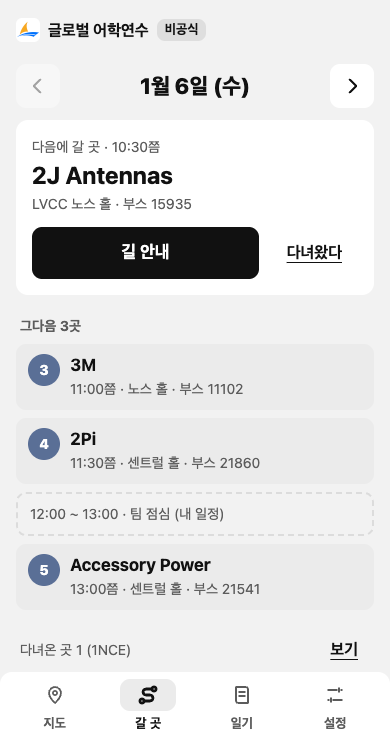
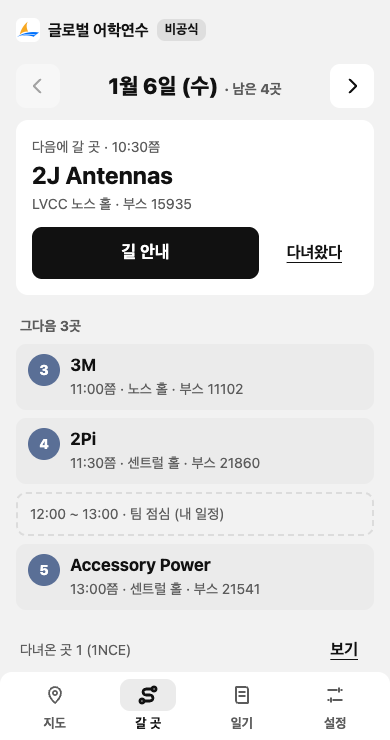
갈 곳 날짜 줄에 그 날 남은 곳 수를 보인다 (R47)
- "1월 6일 (수) · 남은 4곳": 그 날 회사 가운데 다녀왔다를 누르지 않은 곳(내 일정은 세지 않는다)
- 다 다녀왔으면 "다 다녀옴", 회사가 없는 날은 적지 않는다
- 글자만 더한다(단추 · 칩은 그대로). 360px 가장 큰 글자에서는 둘째 줄 작은 글씨

Changed region(s): [[0.2769, 0.0932, 0.7385, 0.1554]]

diff --git a/docs/board/board.single.html b/docs/board/board.single.html
@@ -1098,7 +1098,7 @@ window.BOARD = {
       ai_people: {name: '남의 명함 받기', kind: '화면', one: '카메라로 읽고 만난 사람으로 남긴다', what: '카메라가 되는 곳은 QR을 읽고, 안 되는 곳은 주소나 아이디를 넣는다.', why: '남의 명함도 명함 교환으로 폰에 남기려고 한다.', how: ['깃허브 · 디스코드 · 링크드인 · https 주소만 받는다', '읽자마자(또는 붙여 넣자마자) 폰에 남기고 이름 적기 카드를 연다. 같은 사람은 새 줄 없이 "이미 있다"', '별명 · 만난 곳 · 메모는 카드에서 나중에 고친다', '회사 일기 쓰기와 만난 사람 수를 잇는다'], rules: ['서버로 보내지 않고 ces2027.people.v1에만 둔다', '카메라가 없거나 권한이 거부되면 주소 붙여넣기 길을 보인다'], fails: ['실제 폰 카메라와 사파리는 아직 확인하지 못했다'], files: ['web/views/people.js', 'web/people-ui.js', 'web/people.js', 'web/scan.js', 'web/people-store.js']},
       ai_find: {name: '찾기 칸 · 추천', kind: '화면', one: '지도 위 찾기 칸과 갈 곳 아래 추천 회사에서 관심에 담는다', what: '지도 탭 맨 위의 찾기 칸(이름 · 분야 · 부스 번호)과 갈 곳 탭 아래의 추천 회사(#/rec).', why: '전시사가 많아 고르는 길이 여럿 있어야 한다.', how: ['낱말은 찾기 코어(WASM)가 찾는다', '영어 낱말(세 글자 이상)이면 회사 두 줄 다음에 세션이 두 줄까지. 누르면 세션 일정이 그 제목으로 찾은 채 열린다(세션 자료는 글자를 칠 때 받는다)', '글자가 있으면 칸 오른쪽에 지우기(×): 누르면 칸이 비고 결과 줄이 닫힌다', '추천: 전체 · 혁신상 · 한국 · 내 분야로 걸러 까닭과 같이 보인다'], calls: ['추천', '찾기 코어'], rules: ['추천은 공식 자료만 근거로 한다'], files: ['web/mapfind.js', 'web/views/rec.js', 'web/company.js']},
       ai_list: {name: '전시사 목록', kind: '화면', one: '전시사 전부를 이름순 · 부스순으로 보고 걸러 관심에 담는다', what: '지도 칩 줄 맨 앞 "목록"(#/list). 공식 앱의 전시사 A–Z 목록을 우리 앱에 둔 것이다.', why: '공식 앱은 목록이 중심이다. 지도만으로는 3,751곳을 훑어보기 어렵다.', how: ['이름순: A ~ Z, 숫자 · 기호로 시작하면 맨 끝 #. 위에 붙은 글자 줄로 바로 간다', '부스순: 위치 묶음 차례 → 부스 번호. 위치 줄로 바로 간다', '거르기: 혁신상 · 한국은 누르면 켜고 끄고, 위치 · 나라 · 분야는 고르는 창(회사 수와 같이)', '찾기: 영문 · 숫자는 이름 · 부스 번호로 바로, 한글은 찾기 코어(한글 별칭 · 분야 이름)', '줄은 60개씩 내릴 때 붙인다. 줄을 누르면 지도에서 그 회사 카드, 뒤로 오면 거르기와 보던 자리가 남는다'], calls: ['찾기 코어'], rules: ['자료는 이 화면을 열 때 받는다(첫 화면에 싣지 않는다)', '고른 거르기는 화면을 떠나도 남지만 폰 저장소에는 두지 않는다'], files: ['web/views/list.js', 'web/exlist.js', 'web/hallgroups.js']},
-      ai_plan: {name: '갈 곳 · 시간과 일정', kind: '화면', one: '지금 어디로 가지? 다음 한 곳을 크게', what: '갈 곳 화면(날짜 한 줄, 다음에 갈 곳 한 곳 크게, 그다음 곳들, 다녀온 곳 접기, 목록 고치기 · 지도에서 보기, 큰 회사 카드), 추천 회사, 내 시간(시간과 일정), 강연 일정.', why: '처음 보는 사람도 화면에서 가장 큰 것을 보고 다음에 갈 곳을 안다. 볼 곳을 시간 안에 넣어야 하루가 된다.', how: ['날짜 한 줄 "‹ 1월 6일 (수) ›"로 날을 넘긴다. 1/5(전시 전날)는 그 날 넣은 내 일정이 있을 때만, "날짜 없음"은 날짜 없는 곳이 있을 때만 보인다(1/4 매체 전용은 없다)', '다음에 갈 곳: 고른 날의 첫 안 간 곳의 이름 · 부스 · 때, 검정 "길 안내" 하나와 글자 "다녀왔다"', '그다음 곳들: 번호는 지도 번호와 같고, 내 일정은 번호 없는 점선 칸으로 때에 맞는 자리에 선다', '"다녀왔다"를 누르면 그 곳이 "다녀온 곳 n · 보기" 한 줄로 접히고 "일기 쓰기"가 6초 뜬다. 펼친 줄의 "다녀옴" 칸으로 되돌린다', '줄을 누르면 큰 회사 카드(길 안내 · 다녀왔다 · 일기 쓰기 · 공식 쪽 · 부스 자리마다 한 줄 · 이 회사 강연 · 다른 날로 옮기기 · 갈 곳에서 빼기). 1/5로는 옮기지 못한다', '목록 고치기: 날짜 없는 곳을 날마다 나누기(쓸 시간과 내 일정을 뺀다) · 가까운 곳끼리 줄 세우기 · 다른 사람에게 보내기(폰의 공유 창) · 하루에 볼 곳 · 받은 목록 넣기', '날마다 "몇 시쯤"과 내 일정을 같이 보인다', '문서 · 표 파일로 내보내기와 시간 · 일정 파일은 설정에 있다'], rules: ['검정 단추는 화면에 "길 안내" 하나', '1/5에는 회사를 넣지 못한다(내 일정만)', '우리 일정은 폰에만 둔다. 레포에 넣지 않는다', '일정은 바뀔 수 있다고 보인다 (운영팀 안내가 먼저)'], calls: ['걷는 차례 · 날 나누기'], files: ['web/views/plan.js', 'web/plancard.js', 'web/views/days.js', 'web/views/sessions.js', 'web/company-extra.js', 'web/bands.js', 'docs/디자인/동선_쉽게_안.md', 'docs/내일정_파일.md'], ch: '2026-11-24 · 안 1(다음 한 곳 크게)로 다시 지었다. 탭 이름 "동선" → "갈 곳", 날짜 칩 → 날짜 한 줄, "안 본 곳" 칩 대신 다녀온 곳 접기'},
+      ai_plan: {name: '갈 곳 · 시간과 일정', kind: '화면', one: '지금 어디로 가지? 다음 한 곳을 크게', what: '갈 곳 화면(날짜 한 줄, 다음에 갈 곳 한 곳 크게, 그다음 곳들, 다녀온 곳 접기, 목록 고치기 · 지도에서 보기, 큰 회사 카드), 추천 회사, 내 시간(시간과 일정), 강연 일정.', why: '처음 보는 사람도 화면에서 가장 큰 것을 보고 다음에 갈 곳을 안다. 볼 곳을 시간 안에 넣어야 하루가 된다.', how: ['날짜 한 줄 "‹ 1월 6일 (수) · 남은 4곳 ›"로 날을 넘긴다. 남은 곳은 그 날 회사 가운데 다녀왔다를 누르지 않은 곳이다(내 일정은 세지 않는다, 다 다녀왔으면 "다 다녀옴"). 1/5(전시 전날)는 그 날 넣은 내 일정이 있을 때만, "날짜 없음"은 날짜 없는 곳이 있을 때만 보인다(1/4 매체 전용은 없다)', '다음에 갈 곳: 고른 날의 첫 안 간 곳의 이름 · 부스 · 때, 검정 "길 안내" 하나와 글자 "다녀왔다"', '그다음 곳들: 번호는 지도 번호와 같고, 내 일정은 번호 없는 점선 칸으로 때에 맞는 자리에 선다', '"다녀왔다"를 누르면 그 곳이 "다녀온 곳 n · 보기" 한 줄로 접히고 "일기 쓰기"가 6초 뜬다. 펼친 줄의 "다녀옴" 칸으로 되돌린다', '줄을 누르면 큰 회사 카드(길 안내 · 다녀왔다 · 일기 쓰기 · 공식 쪽 · 부스 자리마다 한 줄 · 이 회사 강연 · 다른 날로 옮기기 · 갈 곳에서 빼기). 1/5로는 옮기지 못한다', '목록 고치기: 날짜 없는 곳을 날마다 나누기(쓸 시간과 내 일정을 뺀다) · 가까운 곳끼리 줄 세우기 · 다른 사람에게 보내기(폰의 공유 창) · 하루에 볼 곳 · 받은 목록 넣기', '날마다 "몇 시쯤"과 내 일정을 같이 보인다', '문서 · 표 파일로 내보내기와 시간 · 일정 파일은 설정에 있다'], rules: ['검정 단추는 화면에 "길 안내" 하나', '1/5에는 회사를 넣지 못한다(내 일정만)', '우리 일정은 폰에만 둔다. 레포에 넣지 않는다', '일정은 바뀔 수 있다고 보인다 (운영팀 안내가 먼저)'], calls: ['걷는 차례 · 날 나누기'], files: ['web/views/plan.js', 'web/plancard.js', 'web/views/days.js', 'web/views/sessions.js', 'web/company-extra.js', 'web/bands.js', 'docs/디자인/동선_쉽게_안.md', 'docs/내일정_파일.md'], ch: '2026-11-24 · 안 1(다음 한 곳 크게)로 다시 지었다. 탭 이름 "동선" → "갈 곳", 날짜 칩 → 날짜 한 줄(같은 날 남은 곳 수를 글자로 더함), "안 본 곳" 칩 대신 다녀온 곳 접기'},
       ai_map: {name: '지도 (2D · 3D)', kind: '화면', one: '내 자리 · 부스 · 길 안내', what: '2D 지도가 기본, 3D는 누를 때 불러온다.', why: '이동하는 것이 곧 내가 움직이는 것으로 보이게.', how: ['두 손가락 벌리기 · 두 번 톡 · 끌기. 확대 단계는 캠퍼스 → 홀 → 부스', '확대할수록 홀 이름 → 큰 회사 · 관심 회사 이름 → 부스 번호와 회사 이름 (글자 13px 이상, 겹치면 숨김)', '위 홀 칩을 누르면 그 홀로 날아간다', '맨 위 찾기 칸에서 회사를 찾으면 그 부스로 날아가 카드가 열린다', '회사를 누르면 아래에서 올라오는 카드: 관심 담기 · 갈 곳에 넣기(1/6 ~ 1/9) · 여기까지 길 · 부스가 둘 이상이면 자리마다 한 줄 · 이 회사 세션(제목이 밝힌 이름이 회사 이름과 같은 것만)', '카드는 손잡이를 끌거나(아래로 끌면 닫힘) 오른쪽 위 ×로 닫는다. ×는 카드만 닫고 길 안내는 그대로 둔다. 카드가 열려 있는 동안 페이지는 위아래로 당겨지지 않는다', '카드는 열 때마다 맨 위부터 보인다. 카드 자리에서 시작한 끌기 · 바퀴는 뒤의 지도가 받지 않는다. 찾는 글자를 넣기 시작하면 열려 있던 카드를 닫는다(결과 줄이 가려지지 않게)', '오늘 갈 곳의 회사에 번호 점과 이은 선. 갈 곳 탭에서 "지도에서 보기"로 오면 그 날 번호만 진하고 위에 "1/6 갈 곳 5곳만 보는 중 · 모두 보기"', '아래 "다음 갈 곳" 띠는 고른 날의 회사만 보이고, 그 날 남은 곳이 없으면 띠가 없다', '카드의 "길 안내 시작": 선 · 남은 거리 · 걸어서 몇 분 · 방향, 걸으면 지도가 따라온다 (web/nav.js)', '전시사 자료는 홀로 가까이 갈 때 그 홀의 것만 받는다', '셔틀 · 오가는 법(#/transit)으로 간다', '부스에 "명함 넣는 이벤트 있음"을 표시한다 (붉은 테두리)', '내 일정의 공개 장소도 같이 보인다'], rules: ['짐작한 부스 자리는 "짐작"이라고 보인다', '홀 입구·큰 통로 경로도 정식 배치도 전까지 "짐작"이라고 보인다', '구글맵은 링크만 쓴다 (키 없음)'], fails: ['짐작 경로 자료는 data/indoor-paths-guess.json 한 파일에서 바꾼다'], calls: ['위치 · 길 안내', '구글맵 링크'], files: ['web/views/map.js', 'web/mapgesture.js', 'web/mapmath.js', 'web/mapsheet.js', 'web/mapfind.js', 'web/map3d.js', 'web/geo.js', 'scripts/split-halls.mjs', 'data/indoor-paths-guess.json']},
       ai_talk: {name: '듣기', kind: '화면', one: '상대의 영어를 받아 적는다', what: '듣기(#/listen).', why: '부스에서 들은 것을 일기로 잇는다.', how: ['녹음을 알리는 영어 한 줄을 크게 띄우거나 읽어 준다', '듣기: 영어 받아쓰기 뒤 일기 초안', '모델은 크기와 와이파이 안내를 보고 확인한 뒤 받는다 (기본 끔)'], rules: ['첫 화면(지도)에는 모델을 싣지 않는다', '못 하는 것은 숨기지 않고 "이 폰에서는 안 됨"으로 보인다', '폰의 음성 인식 서비스는 한 번 확인받은 뒤에만', '번역은 하지 않는다 (11/22에 지웠다)'], fails: ['실제 폰에서는 아직 확인하지 못했다'], calls: ['말 기능'], files: ['web/views/listen.js', 'data/speech-model.json', 'docs/물어볼말_듣기.md']},
       ai_talkbox: {name: '대화 칸', kind: '화면', one: '회사마다 대화를 넣고 일기 초안으로 잇는다', what: '대화 칸(#/talk/<회사>): 듣기 · 붙여넣기 · 손으로.', why: '부스에서 나눈 대화를 일기로 남기려고.', how: ['복사한 대화를 붙여 넣으면 줄마다 영어 / 한국어로 나누고 위 줄 · 아래 줄 짝을 짓는다', '짝을 못 지으면 한 덩어리로 둔다', '상대 · 나를 바꿀 수 있다', '저장하면 일기 초안이 된다 (들은 것은 상대가 한 영어 원문 줄만)'], rules: ['첫 화면(지도)에 싣지 않는다', '대화는 폰에만 남는다', '녹음하지 않는다'], fails: ['실제 폰에서는 아직 확인하지 못했다'], calls: ['대화 셈'], files: ['web/views/talk.js', 'docs/물어볼말_듣기.md']},

diff --git a/docs/board/board-data.js b/docs/board/board-data.js
@@ -359,7 +359,7 @@ window.BOARD = {
       ai_people: {name: '남의 명함 받기', kind: '화면', one: '카메라로 읽고 만난 사람으로 남긴다', what: '카메라가 되는 곳은 QR을 읽고, 안 되는 곳은 주소나 아이디를 넣는다.', why: '남의 명함도 명함 교환으로 폰에 남기려고 한다.', how: ['깃허브 · 디스코드 · 링크드인 · https 주소만 받는다', '읽자마자(또는 붙여 넣자마자) 폰에 남기고 이름 적기 카드를 연다. 같은 사람은 새 줄 없이 "이미 있다"', '별명 · 만난 곳 · 메모는 카드에서 나중에 고친다', '회사 일기 쓰기와 만난 사람 수를 잇는다'], rules: ['서버로 보내지 않고 ces2027.people.v1에만 둔다', '카메라가 없거나 권한이 거부되면 주소 붙여넣기 길을 보인다'], fails: ['실제 폰 카메라와 사파리는 아직 확인하지 못했다'], files: ['web/views/people.js', 'web/people-ui.js', 'web/people.js', 'web/scan.js', 'web/people-store.js']},
       ai_find: {name: '찾기 칸 · 추천', kind: '화면', one: '지도 위 찾기 칸과 갈 곳 아래 추천 회사에서 관심에 담는다', what: '지도 탭 맨 위의 찾기 칸(이름 · 분야 · 부스 번호)과 갈 곳 탭 아래의 추천 회사(#/rec).', why: '전시사가 많아 고르는 길이 여럿 있어야 한다.', how: ['낱말은 찾기 코어(WASM)가 찾는다', '영어 낱말(세 글자 이상)이면 회사 두 줄 다음에 세션이 두 줄까지. 누르면 세션 일정이 그 제목으로 찾은 채 열린다(세션 자료는 글자를 칠 때 받는다)', '글자가 있으면 칸 오른쪽에 지우기(×): 누르면 칸이 비고 결과 줄이 닫힌다', '추천: 전체 · 혁신상 · 한국 · 내 분야로 걸러 까닭과 같이 보인다'], calls: ['추천', '찾기 코어'], rules: ['추천은 공식 자료만 근거로 한다'], files: ['web/mapfind.js', 'web/views/rec.js', 'web/company.js']},
       ai_list: {name: '전시사 목록', kind: '화면', one: '전시사 전부를 이름순 · 부스순으로 보고 걸러 관심에 담는다', what: '지도 칩 줄 맨 앞 "목록"(#/list). 공식 앱의 전시사 A–Z 목록을 우리 앱에 둔 것이다.', why: '공식 앱은 목록이 중심이다. 지도만으로는 3,751곳을 훑어보기 어렵다.', how: ['이름순: A ~ Z, 숫자 · 기호로 시작하면 맨 끝 #. 위에 붙은 글자 줄로 바로 간다', '부스순: 위치 묶음 차례 → 부스 번호. 위치 줄로 바로 간다', '거르기: 혁신상 · 한국은 누르면 켜고 끄고, 위치 · 나라 · 분야는 고르는 창(회사 수와 같이)', '찾기: 영문 · 숫자는 이름 · 부스 번호로 바로, 한글은 찾기 코어(한글 별칭 · 분야 이름)', '줄은 60개씩 내릴 때 붙인다. 줄을 누르면 지도에서 그 회사 카드, 뒤로 오면 거르기와 보던 자리가 남는다'], calls: ['찾기 코어'], rules: ['자료는 이 화면을 열 때 받는다(첫 화면에 싣지 않는다)', '고른 거르기는 화면을 떠나도 남지만 폰 저장소에는 두지 않는다'], files: ['web/views/list.js', 'web/exlist.js', 'web/hallgroups.js']},
-      ai_plan: {name: '갈 곳 · 시간과 일정', kind: '화면', one: '지금 어디로 가지? 다음 한 곳을 크게', what: '갈 곳 화면(날짜 한 줄, 다음에 갈 곳 한 곳 크게, 그다음 곳들, 다녀온 곳 접기, 목록 고치기 · 지도에서 보기, 큰 회사 카드), 추천 회사, 내 시간(시간과 일정), 강연 일정.', why: '처음 보는 사람도 화면에서 가장 큰 것을 보고 다음에 갈 곳을 안다. 볼 곳을 시간 안에 넣어야 하루가 된다.', how: ['날짜 한 줄 "‹ 1월 6일 (수) ›"로 날을 넘긴다. 1/5(전시 전날)는 그 날 넣은 내 일정이 있을 때만, "날짜 없음"은 날짜 없는 곳이 있을 때만 보인다(1/4 매체 전용은 없다)', '다음에 갈 곳: 고른 날의 첫 안 간 곳의 이름 · 부스 · 때, 검정 "길 안내" 하나와 글자 "다녀왔다"', '그다음 곳들: 번호는 지도 번호와 같고, 내 일정은 번호 없는 점선 칸으로 때에 맞는 자리에 선다', '"다녀왔다"를 누르면 그 곳이 "다녀온 곳 n · 보기" 한 줄로 접히고 "일기 쓰기"가 6초 뜬다. 펼친 줄의 "다녀옴" 칸으로 되돌린다', '줄을 누르면 큰 회사 카드(길 안내 · 다녀왔다 · 일기 쓰기 · 공식 쪽 · 부스 자리마다 한 줄 · 이 회사 강연 · 다른 날로 옮기기 · 갈 곳에서 빼기). 1/5로는 옮기지 못한다', '목록 고치기: 날짜 없는 곳을 날마다 나누기(쓸 시간과 내 일정을 뺀다) · 가까운 곳끼리 줄 세우기 · 다른 사람에게 보내기(폰의 공유 창) · 하루에 볼 곳 · 받은 목록 넣기', '날마다 "몇 시쯤"과 내 일정을 같이 보인다', '문서 · 표 파일로 내보내기와 시간 · 일정 파일은 설정에 있다'], rules: ['검정 단추는 화면에 "길 안내" 하나', '1/5에는 회사를 넣지 못한다(내 일정만)', '우리 일정은 폰에만 둔다. 레포에 넣지 않는다', '일정은 바뀔 수 있다고 보인다 (운영팀 안내가 먼저)'], calls: ['걷는 차례 · 날 나누기'], files: ['web/views/plan.js', 'web/plancard.js', 'web/views/days.js', 'web/views/sessions.js', 'web/company-extra.js', 'web/bands.js', 'docs/디자인/동선_쉽게_안.md', 'docs/내일정_파일.md'], ch: '2026-11-24 · 안 1(다음 한 곳 크게)로 다시 지었다. 탭 이름 "동선" → "갈 곳", 날짜 칩 → 날짜 한 줄, "안 본 곳" 칩 대신 다녀온 곳 접기'},
+      ai_plan: {name: '갈 곳 · 시간과 일정', kind: '화면', one: '지금 어디로 가지? 다음 한 곳을 크게', what: '갈 곳 화면(날짜 한 줄, 다음에 갈 곳 한 곳 크게, 그다음 곳들, 다녀온 곳 접기, 목록 고치기 · 지도에서 보기, 큰 회사 카드), 추천 회사, 내 시간(시간과 일정), 강연 일정.', why: '처음 보는 사람도 화면에서 가장 큰 것을 보고 다음에 갈 곳을 안다. 볼 곳을 시간 안에 넣어야 하루가 된다.', how: ['날짜 한 줄 "‹ 1월 6일 (수) · 남은 4곳 ›"로 날을 넘긴다. 남은 곳은 그 날 회사 가운데 다녀왔다를 누르지 않은 곳이다(내 일정은 세지 않는다, 다 다녀왔으면 "다 다녀옴"). 1/5(전시 전날)는 그 날 넣은 내 일정이 있을 때만, "날짜 없음"은 날짜 없는 곳이 있을 때만 보인다(1/4 매체 전용은 없다)', '다음에 갈 곳: 고른 날의 첫 안 간 곳의 이름 · 부스 · 때, 검정 "길 안내" 하나와 글자 "다녀왔다"', '그다음 곳들: 번호는 지도 번호와 같고, 내 일정은 번호 없는 점선 칸으로 때에 맞는 자리에 선다', '"다녀왔다"를 누르면 그 곳이 "다녀온 곳 n · 보기" 한 줄로 접히고 "일기 쓰기"가 6초 뜬다. 펼친 줄의 "다녀옴" 칸으로 되돌린다', '줄을 누르면 큰 회사 카드(길 안내 · 다녀왔다 · 일기 쓰기 · 공식 쪽 · 부스 자리마다 한 줄 · 이 회사 강연 · 다른 날로 옮기기 · 갈 곳에서 빼기). 1/5로는 옮기지 못한다', '목록 고치기: 날짜 없는 곳을 날마다 나누기(쓸 시간과 내 일정을 뺀다) · 가까운 곳끼리 줄 세우기 · 다른 사람에게 보내기(폰의 공유 창) · 하루에 볼 곳 · 받은 목록 넣기', '날마다 "몇 시쯤"과 내 일정을 같이 보인다', '문서 · 표 파일로 내보내기와 시간 · 일정 파일은 설정에 있다'], rules: ['검정 단추는 화면에 "길 안내" 하나', '1/5에는 회사를 넣지 못한다(내 일정만)', '우리 일정은 폰에만 둔다. 레포에 넣지 않는다', '일정은 바뀔 수 있다고 보인다 (운영팀 안내가 먼저)'], calls: ['걷는 차례 · 날 나누기'], files: ['web/views/plan.js', 'web/plancard.js', 'web/views/days.js', 'web/views/sessions.js', 'web/company-extra.js', 'web/bands.js', 'docs/디자인/동선_쉽게_안.md', 'docs/내일정_파일.md'], ch: '2026-11-24 · 안 1(다음 한 곳 크게)로 다시 지었다. 탭 이름 "동선" → "갈 곳", 날짜 칩 → 날짜 한 줄(같은 날 남은 곳 수를 글자로 더함), "안 본 곳" 칩 대신 다녀온 곳 접기'},
       ai_map: {name: '지도 (2D · 3D)', kind: '화면', one: '내 자리 · 부스 · 길 안내', what: '2D 지도가 기본, 3D는 누를 때 불러온다.', why: '이동하는 것이 곧 내가 움직이는 것으로 보이게.', how: ['두 손가락 벌리기 · 두 번 톡 · 끌기. 확대 단계는 캠퍼스 → 홀 → 부스', '확대할수록 홀 이름 → 큰 회사 · 관심 회사 이름 → 부스 번호와 회사 이름 (글자 13px 이상, 겹치면 숨김)', '위 홀 칩을 누르면 그 홀로 날아간다', '맨 위 찾기 칸에서 회사를 찾으면 그 부스로 날아가 카드가 열린다', '회사를 누르면 아래에서 올라오는 카드: 관심 담기 · 갈 곳에 넣기(1/6 ~ 1/9) · 여기까지 길 · 부스가 둘 이상이면 자리마다 한 줄 · 이 회사 세션(제목이 밝힌 이름이 회사 이름과 같은 것만)', '카드는 손잡이를 끌거나(아래로 끌면 닫힘) 오른쪽 위 ×로 닫는다. ×는 카드만 닫고 길 안내는 그대로 둔다. 카드가 열려 있는 동안 페이지는 위아래로 당겨지지 않는다', '카드는 열 때마다 맨 위부터 보인다. 카드 자리에서 시작한 끌기 · 바퀴는 뒤의 지도가 받지 않는다. 찾는 글자를 넣기 시작하면 열려 있던 카드를 닫는다(결과 줄이 가려지지 않게)', '오늘 갈 곳의 회사에 번호 점과 이은 선. 갈 곳 탭에서 "지도에서 보기"로 오면 그 날 번호만 진하고 위에 "1/6 갈 곳 5곳만 보는 중 · 모두 보기"', '아래 "다음 갈 곳" 띠는 고른 날의 회사만 보이고, 그 날 남은 곳이 없으면 띠가 없다', '카드의 "길 안내 시작": 선 · 남은 거리 · 걸어서 몇 분 · 방향, 걸으면 지도가 따라온다 (web/nav.js)', '전시사 자료는 홀로 가까이 갈 때 그 홀의 것만 받는다', '셔틀 · 오가는 법(#/transit)으로 간다', '부스에 "명함 넣는 이벤트 있음"을 표시한다 (붉은 테두리)', '내 일정의 공개 장소도 같이 보인다'], rules: ['짐작한 부스 자리는 "짐작"이라고 보인다', '홀 입구·큰 통로 경로도 정식 배치도 전까지 "짐작"이라고 보인다', '구글맵은 링크만 쓴다 (키 없음)'], fails: ['짐작 경로 자료는 data/indoor-paths-guess.json 한 파일에서 바꾼다'], calls: ['위치 · 길 안내', '구글맵 링크'], files: ['web/views/map.js', 'web/mapgesture.js', 'web/mapmath.js', 'web/mapsheet.js', 'web/mapfind.js', 'web/map3d.js', 'web/geo.js', 'scripts/split-halls.mjs', 'data/indoor-paths-guess.json']},
       ai_talk: {name: '듣기', kind: '화면', one: '상대의 영어를 받아 적는다', what: '듣기(#/listen).', why: '부스에서 들은 것을 일기로 잇는다.', how: ['녹음을 알리는 영어 한 줄을 크게 띄우거나 읽어 준다', '듣기: 영어 받아쓰기 뒤 일기 초안', '모델은 크기와 와이파이 안내를 보고 확인한 뒤 받는다 (기본 끔)'], rules: ['첫 화면(지도)에는 모델을 싣지 않는다', '못 하는 것은 숨기지 않고 "이 폰에서는 안 됨"으로 보인다', '폰의 음성 인식 서비스는 한 번 확인받은 뒤에만', '번역은 하지 않는다 (11/22에 지웠다)'], fails: ['실제 폰에서는 아직 확인하지 못했다'], calls: ['말 기능'], files: ['web/views/listen.js', 'data/speech-model.json', 'docs/물어볼말_듣기.md']},
       ai_talkbox: {name: '대화 칸', kind: '화면', one: '회사마다 대화를 넣고 일기 초안으로 잇는다', what: '대화 칸(#/talk/<회사>): 듣기 · 붙여넣기 · 손으로.', why: '부스에서 나눈 대화를 일기로 남기려고.', how: ['복사한 대화를 붙여 넣으면 줄마다 영어 / 한국어로 나누고 위 줄 · 아래 줄 짝을 짓는다', '짝을 못 지으면 한 덩어리로 둔다', '상대 · 나를 바꿀 수 있다', '저장하면 일기 초안이 된다 (들은 것은 상대가 한 영어 원문 줄만)'], rules: ['첫 화면(지도)에 싣지 않는다', '대화는 폰에만 남는다', '녹음하지 않는다'], fails: ['실제 폰에서는 아직 확인하지 못했다'], calls: ['대화 셈'], files: ['web/views/talk.js', 'docs/물어볼말_듣기.md']},

diff --git a/web/views/plan.js b/web/views/plan.js
@@ -223,12 +223,14 @@ export async function render() {
       const when = hours ? timeline(items.length, hours, evs, pace) : [];
       items.forEach((it, i) => { if (hours) whenOf.set(it.id, when[i]); });
 
-      // 날짜 한 줄: ‹ 1월 6일 (수) ›. 날마다 몇 곳인지는 여기 적지 않는다(안 1에서 뺀 것. 아래 "그다음 n곳"이 말한다).
+      // 날짜 한 줄: ‹ 1월 6일 (수) · 남은 4곳 ›. 남은 곳 = 그 날 회사 가운데 "다녀왔다"를 누르지 않은 곳(내 일정은 세지 않는다).
+      // 다 다녀왔으면 "다 다녀옴", 그 날 넣은 회사가 없으면 수를 적지 않는다. 글자만 더한다(단추 · 칩은 늘리지 않는다, 2026-11-24 이재엽).
+      const left = items.length ? (todo.length ? `남은 ${todo.length}곳` : '다 다녀옴') : '';
       const at = live.findIndex((x) => x.key === d.key);
       const step = (to, left) => el('button', { class: 'daynav-btn', type: 'button', disabled: !to, 'aria-label': to ? `${left ? '앞 날' : '다음 날'}: ${longDay(to)}` : (left ? '앞 날 없음' : '다음 날 없음'), onclick: () => { if (!to) return; showDay(to.key); status.textContent = ''; hideToast(); draw(); document.querySelector(`.daynav-btn[data-side="${left ? 'prev' : 'next'}"]`)?.focus({ preventScroll: true }); }, 'data-side': left ? 'prev' : 'next' }, chevron(left));
       navHolder.replaceChildren(el('div', { class: 'daynav', role: 'group', 'aria-label': '날짜' },
         step(live[at - 1], true),
-        el('h2', { class: 'daynav-now', 'aria-live': 'polite' }, el('span', { class: 'daynav-day', text: longDay(d) })),
+        el('h2', { class: 'daynav-now', 'aria-live': 'polite' }, el('span', { class: 'daynav-day', text: longDay(d) }), left ? el('span', { class: 'daynav-left', text: `· ${left}` }) : null),
         step(live[at + 1], false)));
 
       // 다음에 갈 곳: 고른 날의 첫 안 간 곳 하나를 가장 크게. 검정 단추는 "길 안내" 하나.

diff --git a/web/app.css b/web/app.css
@@ -109,12 +109,14 @@ body:has(.mappage) .bar .tag { display: none; }
 .wait { min-height: 160px; }
 .empty .btn { min-width: 60%; }
 
-/* ---- 갈 곳 맨 위: 날짜 한 줄(‹ 1월 6일 (수) ›) → 다음에 갈 곳 한 곳 크게(검정 단추는 "길 안내" 하나) ---- */
+/* ---- 갈 곳 맨 위: 날짜 한 줄(‹ 1월 6일 (수) · 남은 4곳 ›) → 다음에 갈 곳 한 곳 크게(검정 단추는 "길 안내" 하나) ---- */
 .daynav { display: flex; align-items: center; gap: var(--s2); }
 .daynav-btn { flex: none; display: flex; align-items: center; justify-content: center; width: var(--tap-min); height: var(--tap-min); padding: 0; border: 0; border-radius: var(--radius-ctl); background: var(--panel); color: var(--ink); cursor: pointer; }
 .daynav-btn svg { width: 22px; height: 22px; fill: none; stroke: currentColor; stroke-width: 2.2; stroke-linecap: round; stroke-linejoin: round; }
 .daynav-btn[disabled] { opacity: 0.35; cursor: default; }
-.daynav-now { flex: 1 1 auto; min-width: 0; text-align: center; overflow-wrap: anywhere; font-size: calc(22px * var(--scale-head)); line-height: 1.3; letter-spacing: 0; }
+/* 날짜와 남은 곳 수는 한 줄에 서고, 넘치면(큰 글자) 남은 곳 수가 둘째 줄로 내려간다 */
+.daynav-now { flex: 1 1 auto; min-width: 0; display: flex; flex-wrap: wrap; align-items: baseline; justify-content: center; gap: 0 6px; text-align: center; overflow-wrap: anywhere; font-size: calc(22px * var(--scale-head)); line-height: 1.3; letter-spacing: 0; }
+.daynav-left { font-size: var(--fs-small); font-weight: 700; letter-spacing: 0; color: var(--ink-2); white-space: nowrap; }
 .planpage .panel.nextup { display: grid; gap: var(--s3); padding: var(--s4); }
 .nextup > * + * { margin-top: 0; }
 .nextup-open { display: grid; gap: 2px; width: 100%; padding: 0; border: 0; border-radius: var(--radius-tag); background: transparent; color: var(--ink); font: inherit; text-align: left; cursor: pointer; }

diff --git a/요구사항.md b/요구사항.md
@@ -86,7 +86,7 @@
 | R44 | 지도 자세히 | 말14 | 360px 폰에서 확대할수록 더 보인다: 캠퍼스 단계에 홀 이름, 홀 단계에 큰 회사 · 관심 회사 이름, 부스 단계에 부스 번호와 회사 이름(글자 13px 이상, 겹치면 숨김, 관심 · 동선 회사는 늘 보임). 위에 찾기 칸(회사 · 부스 번호 · 홀)과 홀 칩 한 줄, 회사를 누르면 아래에서 올라오는 큰 카드(이름 · 부스 · 홀 · 분야 · 자리 짐작 · 관심 담기 · 동선에 넣기 · 여기까지 길 · 공식 링크). 오늘 동선 회사에 번호 점과 이은 선. 전시사 자료는 첫 화면에 다 받지 않고 홀마다 나눠 받는다(지도 첫 열기 1.2초대) | M2 |
 | R45 | 길 안내 (이동 안내 모드) | 말14 | 카드의 "길 안내 시작"(또는 동선의 "길 안내" · 지도 아래 "다음 갈 곳" 띠)을 누르면 내 위치에서 목적지까지 선이 그어지고 아래 띠에 남은 거리 · 걸어서 몇 분 · 방향이 나온다. 걸으면 5초마다 내 자리를 새로 잡아 지도가 따라오고(손으로 끌면 멈춤), 30m 안이면 "도착했다 · 봤다". 다른 캠퍼스면 걸어서 · 셔틀과 구글맵 길찾기. 거리와 시간은 부스 자리가 짐작이라 짐작이다. 서버 없이 이 폰 안에서만 | M2 |
 | R46 | 모은 일기 한 번에 정리 (앱 안) | 말15 · 말4 | 설정의 "모은 일기 열기"에서 받은 일기 파일 여러 개를 한 번에 고르면 네 태그 × 회사 한 장이 화면에 나오고 `한장.md`가 내려온다. 같은 일기는 한 번만 센다. 폰의 `diary.wasm`(`ces-diary`)이 `cargo run -p ces-data -- sort-diary`와 같은 코드로 만들고, 둘의 한 장이 글자 하나까지 같은지 시험이 견준다. 그 화면을 열 때만 받아 첫 화면 2초를 지킨다. 비행기 모드에서도 된다. 고른 파일과 한 장은 폰 저장소에 남지 않는다 (2026-11-22) | M2 |
-| R47 | 본 곳 · 안 본 곳 거르기 | 말15 · 말17 | **"안 본 곳" 칩은 따로 만들지 않는다. 갈 곳 탭(R55)의 "다녀온 곳 접기"가 대신한다**(이재엽이 11/23에 버튼으로 정함). "다녀왔다"를 누른 회사는 그 날 목록에서 빠져 맨 아래 "다녀온 곳 n · 보기" 한 줄로 접히고, 펼친 줄의 "다녀옴" 칸을 누르면 갈 곳으로 돌아온다. 남은 줄의 번호는 지도와 같고, 갈 곳의 줄 · 회사 카드 · 지도 길 안내의 "다녀왔다"가 같은 `seen` 하나를 본다. 칩을 더한 시도(PR #82)는 병합하지 않았다 | M2 (R55로 됨) |
+| R47 | 본 곳 · 안 본 곳 거르기 | 말15 · 말17 | **"안 본 곳" 칩은 따로 만들지 않는다. 갈 곳 탭(R55)의 "다녀온 곳 접기"가 대신한다**(이재엽이 11/23에 버튼으로 정함). "다녀왔다"를 누른 회사는 그 날 목록에서 빠져 맨 아래 "다녀온 곳 n · 보기" 한 줄로 접히고, 펼친 줄의 "다녀옴" 칸을 누르면 갈 곳으로 돌아온다. 남은 줄의 번호는 지도와 같고, 갈 곳의 줄 · 회사 카드 · 지도 길 안내의 "다녀왔다"가 같은 `seen` 하나를 본다. **날짜 줄에 그 날 남은 곳 수를 보인다(이재엽이 11/24에 버튼으로 "넣기"):** "1월 6일 (수) · 남은 4곳". 남은 곳은 그 날 회사 가운데 "다녀왔다"를 누르지 않은 곳이고 내 일정은 세지 않는다. 다 다녀왔으면 "다 다녀옴", "날짜 없음" 날은 날짜 없는 곳 가운데 남은 수, 회사가 없는 날은 적지 않는다. 글자만 더하고 단추 · 칩은 늘리지 않는다. 칩을 더한 시도(PR #82)는 병합하지 않았다 | M2 (R55로 됨) |
 | R48 | 공식 링크 목록 내보내기 | 말15 | 설정의 "회사 링크" 줄(내보내기 아래)에서 관심 회사의 공식 전시사 쪽 링크를 줄마다 "회사 이름 — 주소"로 복사하거나 파일(`ces2027-관심회사-공식링크.txt`)로 내려받는다. 관심 목록 차례이고 자료에서 빠진 회사는 건너뛴다. 현장에서 공식 앱의 실내 길 안내를 쓰고 싶은 사람이 공식 쪽에 손으로 담는 데 쓴다. 우리 앱은 로그인하지 않고 공식 쪽으로 아무것도 보내지 않는다. 전시사 자료는 누를 때만 받는다 (2026-11-22) | M2 |
 | R49 | 일기 사진 한 장 | 말15 | 회사 일기에 사진 한 장(선택)을 넣는다. 폰에서 줄여(긴 변 1024px · 150KB 안의 JPEG) 이 폰의 IndexedDB에만 두고, 글에는 표시만 남긴다. 일기를 파일로 내려받을 때(일기 탭 "보내기" · 설정 "파일로") 그 일기의 `photo` 칸으로 같이 들어가고(판 번호 1 그대로), 모으는 곳 주소로 보내는 묶음에는 없다. 모은 일기 열기와 `sort-diary`는 사진이 든 파일을 깨지지 않고 읽고, 한 장(`한장.md`)에는 사진을 넣지 않고 "사진 있음"만 적는다. 저장 공간이 모자라면 한 줄로 알리고 글도 남기지 않는다("사진 빼기"로 글만 남길 수 있다). 일기를 지우면 사진도 지운다 (2026-11-22) | M2 |
 | R50 | 일정 날짜에 1/5(화) 사전 일정 | 말 (11/22 이재엽이 버튼으로 정함) | 날짜 칩이 1/5 · 1/6 ~ 1/9 · 미정이다(1/4 매체 전용은 넣지 않는다). 동선 · 동선 카드 · 지도 카드의 "동선에 넣기" · 지도의 "이 날 보기" · 세션 일정이 1/5를 같이 쓰고, 이미 폰에 담은 관심 · 나눈 코드의 날짜(1 ~ 4)는 그대로다. 1/5는 전시장을 열기 전이라 걷는 시간은 어림하지 않는다. 360px에서 칩 줄이 넘치지 않는다. **11/23에 고침(R55):** 1/5에는 회사를 넣지 못한다(내 일정만). 갈 곳 탭은 날짜 칩 대신 날짜 한 줄이고 1/5는 그 날 넣은 내 일정이 있을 때만 넘겨 볼 수 있다. 회사 카드 · 지도 카드의 날짜 고르기에 1/5가 없고, 예전에 1/5로 넣은 회사와 받은 목록의 1/5는 "날짜 없음"으로 읽는다. "미정"은 "날짜 없음"으로 부른다 | M2 |
@@ -94,7 +94,7 @@
 | R52 | 설정의 "이 폰의 내 자료 지우기" | 말 (11/22 이재엽이 버튼으로 정함) | 두 번 확인한다. 첫 확인에서 먼저 내보내기를 권하고(내보내기 단추가 같이 있다) 둘째 확인 뒤에 이 폰의 일기 · 만난 사람 · 동선 · 관심 · 내 명함 · 설정을 지운다. 지운 뒤에는 처음 들어온 것처럼 첫 실행 명함부터 시작하고, 앱 껍데기(인터넷 없이 열리는 캐시)는 남는다. "받아 둔 모델 비우기" 줄과 이름 · 설명이 나뉜다 | M2 |
 | R53 | 전시사 목록 (공식 앱의 A–Z 목록 + 거르기) | 말16 · 말11 · 말14 | 지도 칩 줄 맨 앞 "목록"(`#/list`)에서 전시사 전부를 이름순(A ~ Z, 숫자 · 기호는 #)으로 보고 위에 붙은 글자 줄로 바로 간다. 부스순으로 바꾸면 위치 묶음 → 부스 번호 차례이고 위치 줄로 바로 간다. 거르기는 혁신상 · 한국 · 위치(홀 칩 묶음 + 그 밖 장소) · 나라 · 분야이고, 영문 · 숫자는 이름 · 부스 번호로, 한글은 한글 별칭 · 분야 이름으로 찾는다. 줄에는 이름 · 홀 · 부스 번호(부스가 여럿이면 "외 n곳") · 분야 둘 · 혁신상 · 한국 표시와 "관심" 단추가 있고, 줄을 누르면 지도에서 그 회사 카드가 열리며 뒤로 오면 거르기와 보던 자리가 남는다. 자료는 이 화면을 열 때 받고 줄은 60개씩 붙인다. 360px · 가장 큰 글자에서 넘침 0, 누르는 곳 44px 이상, 받은 날짜를 보인다 (2026-11-23) | M2 |
 | R54 | 세션 찾기 · 거르기 칩 (공식 앱 검색의 세션 칸 · 일정의 "거르기 · 주요") | 말16 · 말11 | 세션 일정의 날짜 칩 아래에 거르기 칩 넷(기조연설 · 생중계 · 내 일정 · 분야 ▾)이 있다. 분야는 분야표(`data/categories.json`)의 묶음 일곱 + "그 밖"이고 세션 수와 같이 고른다. 켜면 그 날 목록과 날짜 칩의 개수가 같이 준다. 지도 위 찾기 칸에 영어 낱말(세 글자 이상)을 넣으면 회사 두 줄 다음에 세션이 두 줄까지(제목 · 날짜 · 시각 · 곳) 나오고, 누르면 세션 일정이 그 제목으로 찾은 채 열린다(`#/sessions/q/<낱말>`). 한글 낱말에는 세션을 붙이지 않는다(세션 자료가 영어다). 세션 자료는 글자를 칠 때 받는다 (2026-11-23) | M2 |
-| R55 | 갈 곳 탭: 다음 한 곳 크게 (동선을 처음 보는 사람도 알게) | 말17 | 둘째 탭의 이름이 "갈 곳"이다. 화면은 날짜 한 줄 "‹ 1월 6일 (수) ›" → **다음에 갈 곳** 한 곳 크게(이름 · 부스 · 때 · 검정 "길 안내" 하나 · 글자 "다녀왔다") → "그다음 n곳"(번호는 지도와 같다, 내 일정은 번호 없는 점선 칸) → "다녀온 곳 n · 보기"로 접기 → "목록 고치기 · 지도에서 보기" 차례다. "다녀왔다"를 누르면 "OO 다녀왔다 · 일기 쓰기"가 6초 뜬다. 다음에 갈 곳과 지도의 "다음 갈 곳" 띠 · "이 날 보기" 띠는 고른 날의 회사만 본다. 1/5(전시 전날)에는 회사를 넣지 못한다. 종이 명함 물음은 설정의 "종이 명함" 줄에만 있다. 회사 카드 첫 화면은 이름 · 부스 · 길 안내 · 다녀왔다 · 일기 쓰기 · 공식 쪽이고 검정 단추는 화면에 하나다. 말은 [docs/디자인/동선_쉽게_안.md](docs/디자인/동선_쉽게_안.md) 1.2대로 바꿨다(차례 정리 → 목록 고치기 · 미정 → 날짜 없음 · 아직 / 봤다 → 다녀옴 칸 · 세션 → 강연 일정 · 자리 짐작 → 자리는 짐작 …). 문서 · 표 파일로 내보내기와 시간 · 일정 파일은 설정으로 옮겼다. 360 · 390px, 밝게 · 어둡게, 글자 네 단계에서 옆으로 밀리지 않고 누르는 곳이 44px 이상이며 첫 화면(스크롤 전)에서 누를 곳은 9개다(전 13) (2026-11-23 ~ 24) | M2 |
+| R55 | 갈 곳 탭: 다음 한 곳 크게 (동선을 처음 보는 사람도 알게) | 말17 | 둘째 탭의 이름이 "갈 곳"이다. 화면은 날짜 한 줄 "‹ 1월 6일 (수) · 남은 4곳 ›"(남은 곳 수는 11/24에 더했다, R47) → **다음에 갈 곳** 한 곳 크게(이름 · 부스 · 때 · 검정 "길 안내" 하나 · 글자 "다녀왔다") → "그다음 n곳"(번호는 지도와 같다, 내 일정은 번호 없는 점선 칸) → "다녀온 곳 n · 보기"로 접기 → "목록 고치기 · 지도에서 보기" 차례다. "다녀왔다"를 누르면 "OO 다녀왔다 · 일기 쓰기"가 6초 뜬다. 다음에 갈 곳과 지도의 "다음 갈 곳" 띠 · "이 날 보기" 띠는 고른 날의 회사만 본다. 1/5(전시 전날)에는 회사를 넣지 못한다. 종이 명함 물음은 설정의 "종이 명함" 줄에만 있다. 회사 카드 첫 화면은 이름 · 부스 · 길 안내 · 다녀왔다 · 일기 쓰기 · 공식 쪽이고 검정 단추는 화면에 하나다. 말은 [docs/디자인/동선_쉽게_안.md](docs/디자인/동선_쉽게_안.md) 1.2대로 바꿨다(차례 정리 → 목록 고치기 · 미정 → 날짜 없음 · 아직 / 봤다 → 다녀옴 칸 · 세션 → 강연 일정 · 자리 짐작 → 자리는 짐작 …). 문서 · 표 파일로 내보내기와 시간 · 일정 파일은 설정으로 옮겼다. 360 · 390px, 밝게 · 어둡게, 글자 네 단계에서 옆으로 밀리지 않고 누르는 곳이 44px 이상이며 첫 화면(스크롤 전)에서 누를 곳은 9개다(전 13) (2026-11-23 ~ 24) | M2 |
 
 ## 4. 정할 것
 

diff --git a/design.md b/design.md
@@ -32,7 +32,7 @@ CES 2027 준비 지도(비공식)의 화면은 이 한 장을 따른다. 색 · 
 
 - **앱을 열면 지도:** 맨 위에 회사 찾기 칸, 그 아래 지도. 관심 회사가 없으면 갈 곳 탭에 지도에서 찾으러 가는 단추.
 - **갈 곳 탭 (11/23, 안 1 "다음 한 곳 크게", 기준은 [docs/디자인/동선_쉽게_안.md](docs/디자인/동선_쉽게_안.md)):** 화면의 질문은 "지금 어디로 가지?" 하나다.
-  - 날짜 한 줄 "‹ 1월 6일 (수) ›"(칩 줄 · 날마다 곳 수는 없다). 전시 날에는 오늘이 먼저 열린다. 1/5(전시 전날)는 그 날 넣은 내 일정이 있을 때만, "날짜 없음"은 날짜 없는 곳이 있을 때만 넘겨 볼 수 있다.
+  - 날짜 한 줄 "‹ 1월 6일 (수) · 남은 4곳 ›"(칩 줄은 없다). 날짜는 22px 굵게, 그 옆의 남은 곳 수는 14px 보조 글자다(누르는 것이 아니라 글자다). 남은 곳 = 그 날 회사 가운데 "다녀왔다"를 누르지 않은 곳(내 일정은 세지 않는다). 다 다녀왔으면 "다 다녀옴", 회사가 없는 날은 적지 않는다. 360px에서 글자 기본 · 크게 · 더 크게는 한 줄이고, 가장 크게에서는 남은 곳 수가 둘째 줄로 내려간다(390px는 네 단계 모두 한 줄). 전시 날에는 오늘이 먼저 열린다. 1/5(전시 전날)는 그 날 넣은 내 일정이 있을 때만, "날짜 없음"은 날짜 없는 곳이 있을 때만 넘겨 볼 수 있다.
   - **다음에 갈 곳** 한 곳이 가장 크다: 고른 날의 첫 안 간 곳의 이름(24px) · 부스 · 때, 검정 "길 안내"(이 화면의 검정 단추는 이것 하나), 글자 단추 "다녀왔다".
   - "그다음 n곳": 줄에는 번호(지도와 같다) · 이름 · 때와 곳. 줄 전체가 눌리고 회사 카드가 열린다. 내 일정은 번호 없는 점선 칸 "12:00 ~ 13:00 · 팀 점심 (내 일정)"으로 때에 맞는 자리에 선다.
   - 다녀온 곳은 "다녀온 곳 n · 보기" 한 줄로 접는다("안 본 곳" 칩은 따로 없다). 펼친 줄의 "다녀옴" 칸을 누르면 갈 곳으로 돌아온다.
@@ -175,3 +175,4 @@ CES 2027 폰 앱의 처음 색은 눈이 편한 파스텔 + 남색 글씨(바탕
 - 2026-11-22(다시 짓기 4단계): 지도는 화면을 채우는 칸이다(위 찾기 칸 · 홀 칩, 오른쪽 확대 단추, 아래에서 올라오는 카드). 지도의 글은 13px 아래로 줄이지 않고 겹치면 숨긴다. 지도에는 색 값을 직접 쓰지 않고 토큰(`T.*`)만 쓴다. 관심 · 동선만 강조색 하나로 그린다(분야별 색칠은 기본 꺼짐).
 - 2026-11-22(무채색 테마): 이재엽 "무채색 중심, 요즘 앱 모양. 강조색 하나(관심 · 동선 · 지금 위치 · 주요 단추)는 채도를 낮추고, 탭마다 다른 강조색 · 파스텔 면 · 색 카드 · 색 띠는 없앤다. 지도는 홀 · 부스를 회색 단계로, 분야별 색칠은 끈다. 큰 글씨 제목 · 선 대신 여백 · 모서리 작게 · 그림자 없음 · 검정(어둡게는 흰색) 칠한 단추와 글자 단추. 테마 셋(자동 · 밝게 · 어둡게)은 그대로." → `tokens.css` 값만 바꾸고 화면은 이름을 따라오게 했다. 단추 색은 강조색이 아니라 새 `--btn`(검정)이고, `--lilac`은 없앴다. 지도 코드는 건드리지 않았다(길 · 동선 선이 `--warn`(붉은색)을 쓰는 곳은 지도 쪽 PR에서 강조색으로 바꾼다).
 - 2026-11-23(갈 곳, 안 1): 이재엽 "디자인에 신중할것 / 동선이나 루틴에 저렇게 작업한다고 하면 사람들이 이해하기 어려울것임 더 쉽게 작업" → 안 셋([docs/디자인/동선_쉽게_안.md](docs/디자인/동선_쉽게_안.md)) 가운데 안 1(다음 한 곳 크게)을 버튼으로 골랐다. 탭 이름 "동선" → "갈 곳", 날짜 칩 줄 → 날짜 한 줄, 줄의 "아직 / 봤다" → 큰 칸의 "다녀왔다"와 다녀온 곳 접기("안 본 곳" 칩 R47을 대신한다), "차례 정리" → "목록 고치기", "미정" → "날짜 없음", 1/5에는 회사를 넣지 못한다(내 일정만), 종이 명함 물음은 설정으로. 첫 화면에서 누를 곳 13 → 9. 화면 사진은 `docs/screens/190` ~ `198`.
+- 2026-11-24(날짜 줄의 남은 곳 수): 안 1은 날짜 칩과 함께 "날마다 몇 곳"을 뺐다. 이재엽이 버튼으로 "넣기"를 골라 날짜 줄에 그 날 남은 곳 수를 글자로만 더했다("1월 6일 (수) · 남은 4곳", 다 다녀왔으면 "다 다녀옴"). 단추 · 칩은 늘리지 않았고 첫 화면에서 누를 곳은 9 그대로다.

diff --git a/README.md b/README.md
@@ -65,7 +65,7 @@ cargo run -p ces-data -- sort-diary --in <폴더나 파일> --out 한장.md   # 
 - **아래 탭은 넷 (11/22, 다시 짓기 2단계):** 지도 · 갈 곳 · 일기 · 설정(둘째 탭은 11/23에 "동선"에서 "갈 곳"으로 이름을 바꿨다). 앱을 열면 지도(명함이 없으면 명함부터). 회사 찾기는 지도 위 찾기 칸, 다음에 갈 곳 · 관심 · 추천 회사(`#/rec`) · 내 시간(`#/days`) · 강연 일정(`#/sessions`)은 갈 곳, 셔틀 · 오가는 법(`#/transit`)은 지도, 듣기 · 대화 칸 · 만난 사람은 일기, 명함 · 화면 색 · 알림 · 인터넷 없이 · 내보내기는 설정에 있다. 첫 화면 · 회사 탭 · 따로 신청 · 현장 안내 · 물어보기 · 주제 판 · 알아둘 것은 지웠다. 화면마다 제목 한 줄 + 꼭 필요한 한두 줄, 긴 목록은 칩 한 줄로 한 번에 한 묶음. 화면 색은 자동(폰 설정을 따름) · 밝게 · 어둡게(`web/theme.js` · `web/tokens.css`), 탭마다 강조색이 하나다. 기준은 [design.md](design.md), 탭 넷 사진은 `docs/screens/70 ~ 73`.
 - **전시사 목록 (11/23, R53):** 지도 칩 줄 맨 앞 "목록"(`#/list`). 공식 앱의 전시사 A–Z 목록처럼 이름순(위에 붙은 글자 줄) · 부스순으로 보고 혁신상 · 한국 · 위치 · 나라 · 분야로 거른다. 줄을 누르면 지도에서 카드, 줄의 "관심"으로 바로 담는다.
 - **세션 찾기 · 거르기 (11/23, R54):** 세션 일정의 날짜 칩 아래 거르기 칩(기조연설 · 생중계 · 내 일정 · 분야). 지도 찾기 칸에 영어 낱말을 넣으면 세션도 두 줄까지 나온다.
-- **갈 곳 (11/23, R55, 안 1):** 동선 탭을 "갈 곳"으로 다시 지었다. 날짜 한 줄(‹ 1월 6일 (수) ›) → 다음에 갈 곳 한 곳 크게(길 안내 · 다녀왔다) → 그다음 곳들 → 다녀온 곳 접기 → "목록 고치기 · 지도에서 보기". "다녀왔다"를 누르면 "일기 쓰기"가 6초 뜬다. 1/5(전시 전날)에는 회사를 넣지 못하고 내 일정만 보인다. 문서 · 표 파일로 내보내기와 시간 · 일정 파일은 설정으로 옮겼다. 기준은 [docs/디자인/동선_쉽게_안.md](docs/디자인/동선_쉽게_안.md), 사진은 `docs/screens/190` ~ `198`.
+- **갈 곳 (11/23, R55, 안 1):** 동선 탭을 "갈 곳"으로 다시 지었다. 날짜 한 줄(‹ 1월 6일 (수) · 남은 4곳 ›, 남은 곳 수는 11/24에 더했다) → 다음에 갈 곳 한 곳 크게(길 안내 · 다녀왔다) → 그다음 곳들 → 다녀온 곳 접기 → "목록 고치기 · 지도에서 보기". "다녀왔다"를 누르면 "일기 쓰기"가 6초 뜬다. 1/5(전시 전날)에는 회사를 넣지 못하고 내 일정만 보인다. 문서 · 표 파일로 내보내기와 시간 · 일정 파일은 설정으로 옮겼다. 기준은 [docs/디자인/동선_쉽게_안.md](docs/디자인/동선_쉽게_안.md), 사진은 `docs/screens/190` ~ `198`.
 - **새 판:** 폰이 새 판을 받으면 탭 위에 "새 판이 있다 · 다시 열기"가 뜬다.
 - **시간과 일정:** 날마다 쓸 시간(기본은 CES 공식 전시 시간)과 전시 밖 일정은 폰에만 남고, 작은 파일로 주고받는다. 파일의 꼴은 [docs/내일정_파일.md](docs/내일정_파일.md). 우리 일정은 이 레포에 적지 않는다.
 - **공식 앱 기준표:** CES 공식 앱의 기능이 우리 앱에 있는지 줄마다 적었다(2026-11-22에 앱 살펴보기 7줄과 웹 플래너 7줄을 더해 34줄, 2026-11-23 전시사 목록(R53) · 세션 거르기(R54) 뒤 **됨 10 · 일부 14 · 없음 10**): [docs/공식앱_기준표.md](docs/공식앱_기준표.md). 코드로 되는 것 · 사람과 현장이 필요한 것 · 규칙상 안 하는 것으로 나눈 표가 있다.

diff --git a/docs/테스터_안내.md b/docs/테스터_안내.md
@@ -69,7 +69,7 @@
 5. 부스 점을 눌러 카드를 연다. 이름 · 부스 · 홀 · "자리는 짐작" · "관심 담기" · "갈 곳에 넣기"(날짜 1/6 ~ 1/9) · "여기까지 길" · "공식 링크"가 보이는지, 손잡이를 끌어올리면 끝까지 올라오고 아래로 끌면 닫히는지 본다.
 6. "갈 곳에 넣기"로 회사 둘을 같은 날에 넣고 지도로 돌아와 번호 점과 이은 선이 보이는지, 칩에 "내 갈 곳"이 생기는지 본다.
 7. "3D" 단추를 눌러 3D가 열리는지, 다시 누르면 2D로 돌아오는지 본다.
-8. "갈 곳" 탭을 연다. 설명 없이 3초 안에 "다음에 어디로 가는지"를 알 수 있는지 먼저 본다(가장 큰 것이 "다음에 갈 곳"이다). 맨 위 날짜 한 줄("‹ 1월 6일 (수) ›")의 화살표로 날을 넘기면 그 날 것만 보이는지, "그다음 n곳"의 번호가 지도의 번호와 같은지("지도에서 보기"를 눌러 본다) 본다. "다녀왔다"를 누르면 다음 곳이 올라오고 아래에 "OO 다녀왔다 · 일기 쓰기"가 잠깐 뜨는지, 다녀온 곳이 맨 아래 "다녀온 곳 n · 보기" 한 줄로 접히고 펼쳐서 "다녀옴" 칸을 누르면 돌아오는지 본다. 줄을 누르면 큰 회사 카드가 열려 "길 안내" · "다녀왔다" · "일기 쓰기" · "공식 쪽" · "다른 날로 옮기기" · "갈 곳에서 빼기"가 있는지 본다. "목록 고치기"에 "날짜 없는 곳을 날마다 나누기" · "가까운 곳끼리 줄 세우기" · "다른 사람에게 보내기"가 있는지 본다. 뜻을 모르겠는 말이나 단추가 있으면 그대로 적는다.
+8. "갈 곳" 탭을 연다. 설명 없이 3초 안에 "다음에 어디로 가는지"를 알 수 있는지 먼저 본다(가장 큰 것이 "다음에 갈 곳"이다). 맨 위 날짜 한 줄("‹ 1월 6일 (수) · 남은 4곳 ›")의 화살표로 날을 넘기면 그 날 것만 보이는지, "남은 n곳"이 "다녀왔다"를 누를 때마다 하나씩 줄고 다 다녀오면 "다 다녀옴"이 되는지, "그다음 n곳"의 번호가 지도의 번호와 같은지("지도에서 보기"를 눌러 본다) 본다. "다녀왔다"를 누르면 다음 곳이 올라오고 아래에 "OO 다녀왔다 · 일기 쓰기"가 잠깐 뜨는지, 다녀온 곳이 맨 아래 "다녀온 곳 n · 보기" 한 줄로 접히고 펼쳐서 "다녀옴" 칸을 누르면 돌아오는지 본다. 줄을 누르면 큰 회사 카드가 열려 "길 안내" · "다녀왔다" · "일기 쓰기" · "공식 쪽" · "다른 날로 옮기기" · "갈 곳에서 빼기"가 있는지 본다. "목록 고치기"에 "날짜 없는 곳을 날마다 나누기" · "가까운 곳끼리 줄 세우기" · "다른 사람에게 보내기"가 있는지 본다. 뜻을 모르겠는 말이나 단추가 있으면 그대로 적는다.
 
 ### 4-2. 길 안내 (걸을 때)
 

diff --git a/작업.md b/작업.md
@@ -658,6 +658,17 @@
 - PR: (아래에 적는다)
 
 
+### 날짜 줄에 그 날 남은 곳 수 (11/24, 이재엽이 버튼으로 "넣기", 요구 R47)
+
+- [x] 갈 곳 탭 날짜 줄: "1월 6일 (수) · 남은 4곳". 남은 곳 = 그 날 회사 가운데 "다녀왔다"를 누르지 않은 곳(내 일정은 세지 않는다)
+- [x] 다 다녀왔으면 "다 다녀옴", "날짜 없음" 날은 날짜 없는 곳 가운데 남은 수("날짜 없음 · 남은 1곳"). 회사를 넣지 않은 날(내 일정만 있는 1/5 포함)은 수를 적지 않는다("0곳"이나 "다 다녀옴"으로 읽히지 않게)
+- [x] 글자만 더했다: 날짜(22px 굵게) 옆에 14px 보조 글자. 단추 · 칩은 그대로이고 첫 화면에서 누를 곳은 9 그대로다. 다른 것은 바꾸지 않았다
+- 한 줄에 들어가나(밝게 · 어둡게 같다): 360px 글자 기본 · 크게 · 더 크게는 한 줄, 가장 크게는 남은 곳 수가 둘째 줄 작은 글씨. 390px는 네 단계 모두 한 줄. 날짜는 어느 단계에서도 한 줄이고 잘리지 않는다
+- 시험: smoke 205 통과 · `scripts/browser-plan.mjs` 90가지 통과(남은 곳 수가 다녀왔다 · 되돌리기 · 빼기 · 날짜 넘기기에 맞게 바뀜 · 다 다녀옴 · 날짜 없음 · 1/5에는 없음 · 360 · 390px × 밝게 · 어둡게 × 글자 네 단계의 날짜 줄) · `browser-finish` · `browser-text` 통과
+- 사진: `docs/screens/190-where-360.png` · `190-where-dark-360.png` · `190-where-390.png` · `191-where-toast-360.png` · `196-where-text4-360.png`(둘째 줄) · `197-where-nodate-360.png` · `199-where-all-done-360.png`(다 다녀옴)을 새로 찍었다
+- PR: (아래에 적는다)
+
+
 ## 붙여 넣을 말 (세션마다)
 
 `ces-2027 작업.md 세션 1대로 해 줘. 이슈 번호를 PR에 걸고, 기능이 바뀌면 보드(docs/board)도 고쳐 줘. 병합은 나한테 묻기.`

diff --git a/docs/디자인/동선_쉽게_안.md b/docs/디자인/동선_쉽게_안.md
@@ -137,6 +137,8 @@
 
 **정한 것 (2026-11-23, 이재엽이 버튼으로):** 1은 안 1 · 2는 "갈 곳"으로 바꾼다 · 3은 PR #82를 병합하지 않고 안 1의 "다녀온 곳 접기"로 대신한다 · 4는 1/5에 회사를 넣지 못하게(내 일정만). 지은 기록은 [작업.md](../../작업.md)의 "갈 곳 탭을 안 1로 다시 지었다", 요구는 R55, 지은 화면 사진은 `docs/screens/190` ~ `198`.
 
+**더 정한 것 (2026-11-24, 이재엽이 버튼으로 "넣기"):** 안 1에서 뺀 "날마다 몇 곳"을 날짜 줄의 글자로 되살린다 — "1월 6일 (수) · 남은 4곳"(다 다녀왔으면 "다 다녀옴"). 칩 · 단추는 늘리지 않는다. 위 안 그림(`그림/안-a-*.png`)에는 이 글자가 없다. 지은 모습은 `docs/screens/190-where-360.png`.
+
 ## 5. 이 문서를 만든 법
 
 - 지금 그림: Playwright로 배포판을 360 × 740에서 열고, 이 폰 저장소에 지어낸 관심 12곳(1/5 1 · 1/6 5 · 1/7 2 · 1/8 1 · 1/9 1 · 날짜 없음 2, 1/6 둘째 곳은 "봤다")과 내 일정 하나(1/6 12 ~ 13시 팀 점심)를 넣고 찍었다. 누를 곳 수는 보이는 `a · button · select · input`을 셌다.
